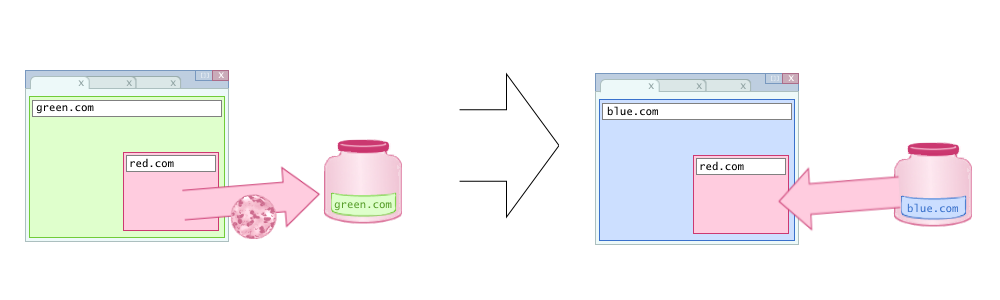
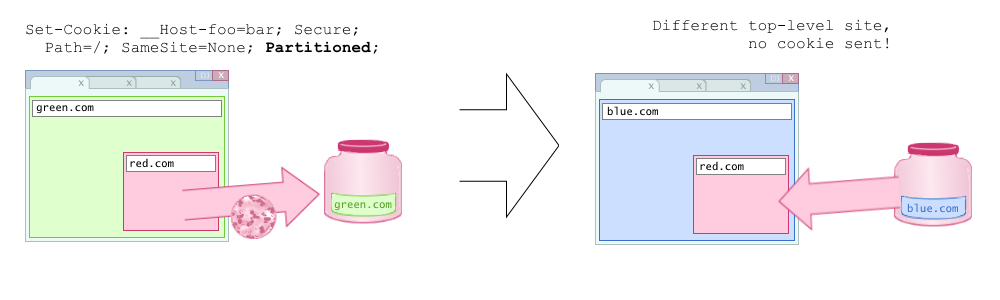
Reorder sections and update graphics (#21)
* reorder sections

* update images

* self review

diff --git a/README.md b/README.md
@@ -12,13 +12,13 @@
 ## Table of Contents
 
 - [Motivation](#motivation)
+- [CHIPS: Opt-in Partitioned Cookies](#chips-opt-in-partitioned-cookies)
+- [Non-Goals](#non-goals)
 - [Key Scenarios](#key-scenarios)
     - [Third-party store-finder service](#third-party-store-finder-service)
     - [Third-party customer service chat embed](#third-party-customer-service-chat-embed)
     - [CDN load balancing](#cdn-load-balancing)
     - [Other examples of use cases](#other-examples-of-use-cases)
-- [Non-goals](#non-goals)
-- [CHIPS: Opt-in Partitioned Cookies](#chips-opt-in-partitioned-cookies)
 - [Design Principles](#design-principles)
     - [Opt-in partitioned cookies](#opt-in-partitioned-cookies)
     - [Only sent over secure protocols](#only-sent-over-secure-protocols)
@@ -76,6 +76,39 @@ This includes [phasing out support for _third-party cookies_](https://blog.chrom
 
 Although third-party cookies can enable third-party sites to track user behavior across different top-level sites, there are some cookie use cases on the web today where cross-domain subresources require some notion of session or persistent state that is scoped to a user's activity on a single top-level site.
 Some examples of such use cases are SaaS providers ([1](https://github.com/privacycg/first-party-sets/issues/33), [2](https://github.com/privacycg/storage-access/issues/74)), [headless CMS providers](https://gist.github.com/rexxars/42d870946d82a3daa0e35b238e0b7d7a), and sandbox domains for serving untrusted user content, e.g. `googleusercontent.com`, `githubusercontent.com` ([1](https://blog.kerika.com/googleusercontent-com-can-trip-you-up-if-you-disable-third-party-cookies/), [2](https://gadgetstouse.com/blog/2020/12/11/fix-google-drive-downloads-not-working-in-microsoft-edge/)).
+
+## CHIPS: Opt-in Partitioned Cookies
+
+In order to meet the use cases, we propose to introduce partitioned cookies a.k.a. CHIPS (Cookies Having Independent Partitioned State).
+Third parties may opt-in to using CHIPS by setting their cross-site cookies with the `Partitioned` attribute.
+This attribute will indicate to user agents that these cross-site cookies should only be available in the same top-level context (top-level site or that site's [First-Party Set](https://github.com/privacycg/first-party-sets) if it has one) that the cookie was created in.
+
+Under this proposal when a user visits `green.com` and embedded content from `red.com` sets a cookie in response to the cross-site request, the user agent would only send that cookie when the top-level site is `green.com`.
+When they are visiting a new site, `blue.com`, an embedded `red.com` frame would not receive the cookie set when `red.com` was embedded in `green.com`.
+
+<center><figure>
+    <img src="./img/after.png" width="600px" alt="After CHIPS third parties' cookie jars are partitioned by top-level site.">
+    <br>
+    <em>
+        After CHIPS: A browser visits green.com which has an embedded red.com frame that sets a cookie. When the user visits blue.com, the red.com frame cannot access the cookie set at green.com since it was a different top-level site.
+    </em>
+    <br><br>
+</figure></center>
+
+**Note:** Firefox recently introduced partitioning all third-party cookies by default as a compatibility measure in the ETP Strict mode, and Safari briefly enabled (and subsequently rolled back) this in a previous version of ITP.
+More details on their approaches are discussed in [Partition all third-party cookies by default](#partition-all-third-party-cookies-by-default).
+
+## Non-goals
+
+- This document does not describe any changes to how a top-level site interacts with its own cookies.
+
+- This document does not describe a replacement for third-party cookies that are shared across different domains owned by the same first organization. For this use case, consider using [First-Party Sets](https://github.com/privacycg/first-party-sets).
+
+- This document also does not describe partitioning any other type of browser storage other than cookies (e.g. HTTP cache, LocalStorage, service workers, etc.).
+
+- This document does not describe how unpartitioned cross-site cookies (i.e. third-party cookies) will be removed.
+  This document describes an opt-in cross-site cookie partitioning mechanism which will be introduced before third-party cookies are removed entirely.
+  The motivation being to provide developers a well-lit path forward for cross-site cookie use cases scoped to activity on a single top-level context before browsers completely remove unpartitioned third-party cookies.
 
 ## Key Scenarios
 
@@ -192,35 +225,6 @@ Some other examples of use cases for partitioned cookies not listed above are:
 - Third-party CDNs that use cookies to serve access-controlled content
 - Front-end frameworks that rely on remote hosting and RPCs to remote services
 - Other types of third-party SaaS embeds
-
-## Non-goals
-
-- This document does not describe any changes to how a top-level site interacts with its own cookies.
-
-- This document does not describe a replacement for third-party cookies that are shared across different domains owned by the same first organization. For this use case, consider using [First-Party Sets](https://github.com/privacycg/first-party-sets).
-
-- This document also does not describe partitioning any other type of browser storage other than cookies (e.g. HTTP cache, LocalStorage, service workers, etc.).
-
-## CHIPS: Opt-in Partitioned Cookies
-
-In order to meet the use cases, we propose to introduce partitioned cookies a.k.a. CHIPS (Cookies Having Independent Partitioned State).
-
-Under this proposal when a user visits `green.com` and embedded content from `red.com` sets a cookie in response to the cross-site request, the user agent would only send that cookie when the top-level site is `green.com`.
-When they are visiting a new site, `blue.com`, an embedded `red.com` frame would not receive the cookie set when `red.com` was embedded in `green.com`.
-
-<center><figure>
-    <img src="./img/after.png" width="600px" alt="After CHIPS third parties' cookie jars are partitioned by top-level site.">
-    <br>
-    <em>
-        After CHIPS: A browser visits green.com which has an embedded red.com frame that sets a cookie. When the user visits blue.com, the red.com frame cannot access the cookie set at green.com since it was a different top-level site.
-    </em>
-    <br><br>
-</figure></center>
-
-**Note:** Firefox recently introduced partitioning all third-party cookies by default as a compatibility measure in the ETP Strict mode, and Safari briefly enabled (and subsequently rolled back) this in a previous version of ITP.
-More details on this approach are covered in the section [Partition all third-party cookies by default](#partition-all-third-party-cookies-by-default).
-
-The purpose of this document is to propose a new cookie attribute, `Partitioned`, which will allow user agents to opt-in to partitioning cookies by top-level context, i.e. partitioned by top-level site (or that site's [First-Party Set](https://github.com/privacycg/first-party-sets) if it has one).
 
 ## Design Principles
 
